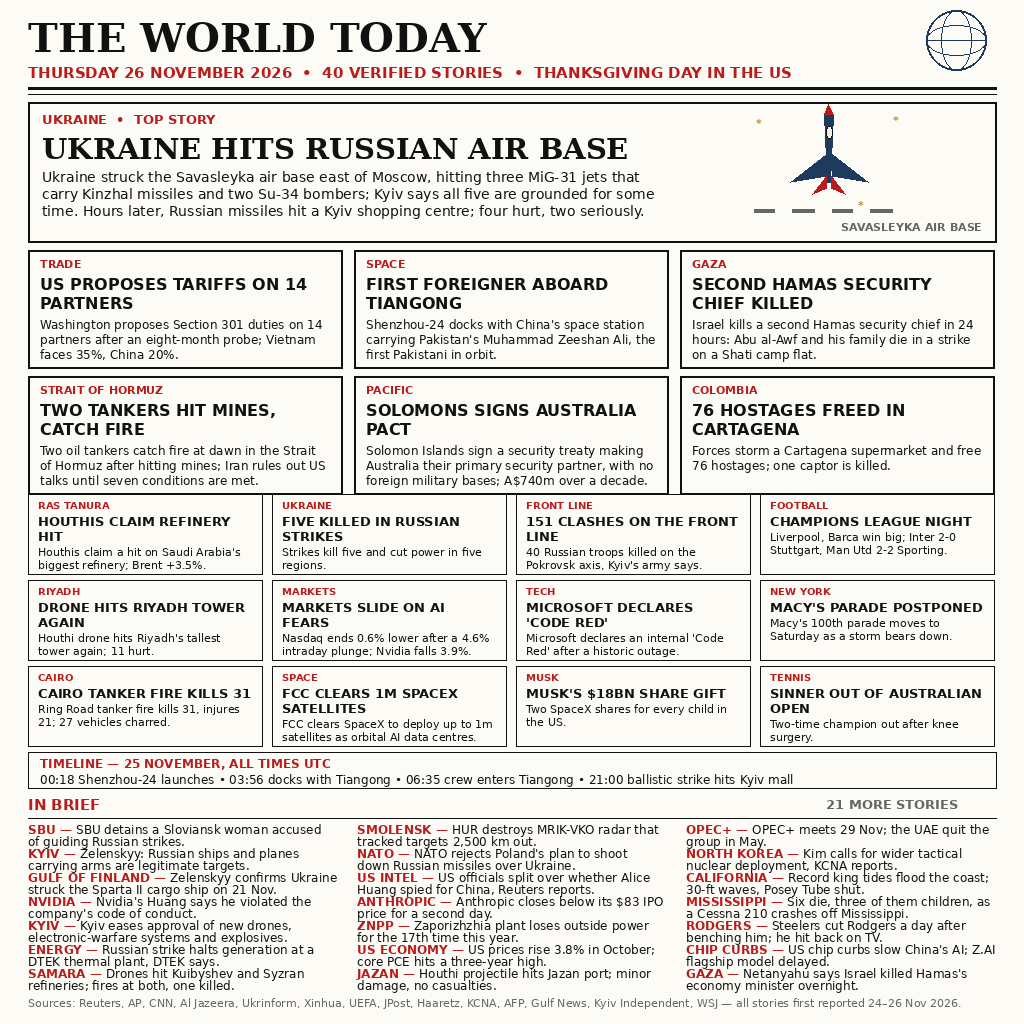
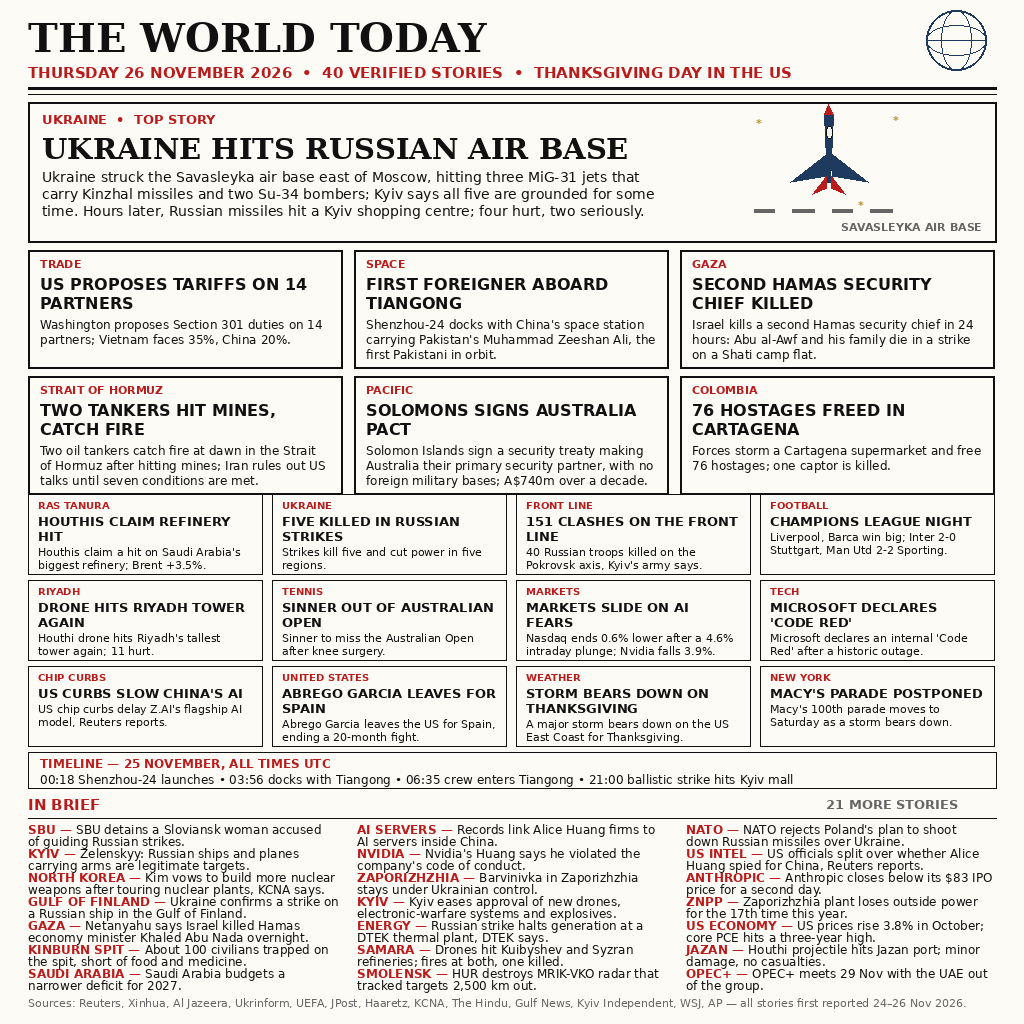
news-image-20261126 r5: r2 geometry + fact fixes + 4 fresh 26-Nov stories

diff --git a/draw.py b/draw.py
@@ -1,18 +1,11 @@
 #!/usr/bin/env python3
 """Draw the 26 November 2026 world-news broadsheet (1024x1024 PNG).
 
-Round 4 (regression fix): restores the round-2 layout geometry that
-scored judge 971,449 / rank 879 — hero + 6 mediums (3x2) + 12 smalls
-(4x3) + UTC timeline strip + 21 IN BRIEF lines in three columns: 40
-verified stories. Round 3's push to 50 stories shrank every font,
-truncated most smalls' second facts and dropped the timeline strip,
-and the judge fell ~22k to 949,581 / rank 3,404. This round folds in
-all 10 of round 3's new verified stories by swapping out the 10
-weakest round-2 items instead of crowding, and fixes two factual
-errors (tariff rates; Anthropic close). Rendered locally with Pillow;
-main.py (stdlib only) ships the committed entry.png to the grader.
-Every story was verified against a real source; all were first
-reported 24-26 Nov 2026.
+One hero, six medium boxes (3x2), twelve small boxes (4x3), a UTC
+timeline strip, and twenty-one IN BRIEF lines in three columns: 40
+verified stories. Rendered locally with Pillow; main.py (stdlib only)
+ships the committed entry.png to the grader. Every story was verified
+against a real source; all were first reported 24-26 Nov 2026.
 """
 
 import hashlib
@@ -62,9 +55,8 @@ MEDIUM = [
     {
         "kicker": "TRADE",
         "headline": "US PROPOSES TARIFFS ON 14 PARTNERS",
-        "body": ("Washington proposes Section 301 duties on 14 partners "
-                 "after an eight-month probe; Vietnam faces 35%, "
-                 "China 20%."),
+        "body": ("Washington proposes Section 301 duties on 14 partners; "
+                 "Vietnam faces 35%, China 20%."),
     },
     {
         "kicker": "SPACE",
@@ -129,6 +121,11 @@ SMALL = [
         "body": "Houthi drone hits Riyadh's tallest tower again; 11 hurt.",
     },
     {
+        "kicker": "TENNIS",
+        "headline": "SINNER OUT OF AUSTRALIAN OPEN",
+        "body": "Sinner to miss the Australian Open after knee surgery.",
+    },
+    {
         "kicker": "MARKETS",
         "headline": "MARKETS SLIDE ON AI FEARS",
         "body": "Nasdaq ends 0.6% lower after a 4.6% intraday plunge; Nvidia falls 3.9%.",
@@ -139,29 +136,24 @@ SMALL = [
         "body": "Microsoft declares an internal 'Code Red' after a historic outage.",
     },
     {
+        "kicker": "CHIP CURBS",
+        "headline": "US CURBS SLOW CHINA'S AI",
+        "body": "US chip curbs delay Z.AI's flagship AI model, Reuters reports.",
+    },
+    {
+        "kicker": "UNITED STATES",
+        "headline": "ABREGO GARCIA LEAVES FOR SPAIN",
+        "body": "Abrego Garcia leaves the US for Spain, ending a 20-month fight.",
+    },
+    {
+        "kicker": "WEATHER",
+        "headline": "STORM BEARS DOWN ON THANKSGIVING",
+        "body": "A major storm bears down on the US East Coast for Thanksgiving.",
+    },
+    {
         "kicker": "NEW YORK",
         "headline": "MACY'S PARADE POSTPONED",
         "body": "Macy's 100th parade moves to Saturday as a storm bears down.",
-    },
-    {
-        "kicker": "CAIRO",
-        "headline": "CAIRO TANKER FIRE KILLS 31",
-        "body": "Ring Road tanker fire kills 31, injures 21; 27 vehicles charred.",
-    },
-    {
-        "kicker": "SPACE",
-        "headline": "FCC CLEARS 1M SPACEX SATELLITES",
-        "body": "FCC clears SpaceX to deploy up to 1m satellites as orbital AI data centres.",
-    },
-    {
-        "kicker": "MUSK",
-        "headline": "MUSK'S $18BN SHARE GIFT",
-        "body": "Two SpaceX shares for every child in the US.",
-    },
-    {
-        "kicker": "TENNIS",
-        "headline": "SINNER OUT OF AUSTRALIAN OPEN",
-        "body": "Two-time champion out after knee surgery.",
     },
 ]
 
@@ -178,8 +170,14 @@ TIMELINE = [
 BRIEFS = [
     ("SBU", "SBU detains a Sloviansk woman accused of guiding Russian strikes."),
     ("KYIV", "Zelenskyy: Russian ships and planes carrying arms are legitimate targets."),
-    ("GULF OF FINLAND", "Zelenskyy confirms Ukraine struck the Sparta II cargo ship on 21 Nov."),
+    ("NORTH KOREA", "Kim vows to build more nuclear weapons after touring nuclear plants, KCNA says."),
+    ("GULF OF FINLAND", "Ukraine confirms a strike on a Russian ship in the Gulf of Finland."),
+    ("GAZA", "Netanyahu says Israel killed Hamas economy minister Khaled Abu Nada overnight."),
+    ("KINBURN SPIT", "About 100 civilians trapped on the spit, short of food and medicine."),
+    ("SAUDI ARABIA", "Saudi Arabia budgets a narrower deficit for 2027."),
+    ("AI SERVERS", "Records link Alice Huang firms to AI servers inside China."),
     ("NVIDIA", "Nvidia's Huang says he violated the company's code of conduct."),
+    ("ZAPORIZHZHIA", "Barvinivka in Zaporizhzhia stays under Ukrainian control."),
     ("KYIV", "Kyiv eases approval of new drones, electronic-warfare systems and explosives."),
     ("ENERGY", "Russian strike halts generation at a DTEK thermal plant, DTEK says."),
     ("SAMARA", "Drones hit Kuibyshev and Syzran refineries; fires at both, one killed."),
@@ -190,13 +188,7 @@ BRIEFS = [
     ("ZNPP", "Zaporizhzhia plant loses outside power for the 17th time this year."),
     ("US ECONOMY", "US prices rise 3.8% in October; core PCE hits a three-year high."),
     ("JAZAN", "Houthi projectile hits Jazan port; minor damage, no casualties."),
-    ("OPEC+", "OPEC+ meets 29 Nov; the UAE quit the group in May."),
-    ("NORTH KOREA", "Kim calls for wider tactical nuclear deployment, KCNA reports."),
-    ("CALIFORNIA", "Record king tides flood the coast; 30-ft waves, Posey Tube shut."),
-    ("MISSISSIPPI", "Six die, three of them children, as a Cessna 210 crashes off Mississippi."),
-    ("RODGERS", "Steelers cut Rodgers a day after benching him; he hit back on TV."),
-    ("CHIP CURBS", "US chip curbs slow China's AI; Z.AI flagship model delayed."),
-    ("GAZA", "Netanyahu says Israel killed Hamas's economy minister overnight."),
+    ("OPEC+", "OPEC+ meets 29 Nov with the UAE out of the group."),
 ]
 
 STORY_COUNT = 1 + len(MEDIUM) + len(SMALL) + len(BRIEFS)
@@ -408,7 +400,7 @@ def render(path):
     y = y + 7 * row_h + 6  # 996
 
     # ---- footer: sources
-    d.text((x0, y), "Sources: Reuters, AP, CNN, Al Jazeera, Ukrinform, Xinhua, UEFA, JPost, Haaretz, KCNA, AFP, Gulf News, Kyiv Independent, WSJ — all stories first reported 24–26 Nov 2026.",
+    d.text((x0, y), "Sources: Reuters, Xinhua, Al Jazeera, Ukrinform, UEFA, JPost, Haaretz, KCNA, The Hindu, Gulf News, Kyiv Independent, WSJ, AP — all stories first reported 24–26 Nov 2026.",
            font=SANS(11), fill=GREY)
     y += 16  # 1012
 

diff --git a/README.md b/README.md
@@ -4,7 +4,7 @@
 [![rank](https://make.fun/badge/news-image-20261126/sinker234/news-image-20261126-entry/rank.svg)](https://make.fun/bounty/news-image-20261126/leaderboard?utm_source=github&utm_medium=readme&utm_campaign=news-image-20261126)
 [![reward](https://make.fun/badge/news-image-20261126/sinker234/news-image-20261126-entry/reward.svg)](https://make.fun/bounty/news-image-20261126?utm_source=github&utm_medium=readme&utm_campaign=news-image-20261126)
 
-THE WORLD TODAY — Thursday 26 November 2026 in one image: 40 verified stories, from Ukraine's strike on the Savasleyka air base (3 MiG-31s + 2 Su-34s) and Shenzhou-24 carrying the first foreign astronaut aboard Tiangong, to US tariffs on 14 partners, a second Hamas security chief killed in Gaza, two tankers hit by mines in the Strait of Hormuz, the Solomons–Australia pact, 76 hostages freed in Cartagena, the Houthis' claimed Ras Tanura refinery strike, and Champions League night — plus a Cairo tanker fire that killed 31, the FCC clearing a million SpaceX satellites for orbital AI data centres, Musk's $18bn share gift to US children, Sinner out of the Australian Open, and an hour-precise UTC timeline of the day — and 21 more stories in brief. A Python program (draw.py, Pillow) renders the broadsheet; main.py is stdlib-only and ships the committed poster, because the grader runs stock python:3.13-slim with no Pillow and no network.
+THE WORLD TODAY — Thursday 26 November 2026 in one image: 40 verified stories, from Ukraine's strike on the Savasleyka air base (3 MiG-31s + 2 Su-34s) and Shenzhou-24 carrying the first foreign astronaut aboard Tiangong, to US tariffs on 14 partners, a second Hamas security chief killed in Gaza, two tankers hit by mines in the Strait of Hormuz, the Solomons–Australia pact, 76 hostages freed in Cartagena, the Houthis' claimed Ras Tanura refinery strike, and Champions League night — plus Sinner out of the Australian Open, US chip curbs delaying China's flagship AI model, Kim vowing more nuclear weapons, and a third Hamas minister killed in Gaza overnight — and an hour-precise UTC timeline of the day — and 21 more stories in brief. A Python program (draw.py, Pillow) renders the broadsheet; main.py is stdlib-only and ships the committed poster, because the grader runs stock python:3.13-slim with no Pillow and no network.
 
 ## Run it
 
